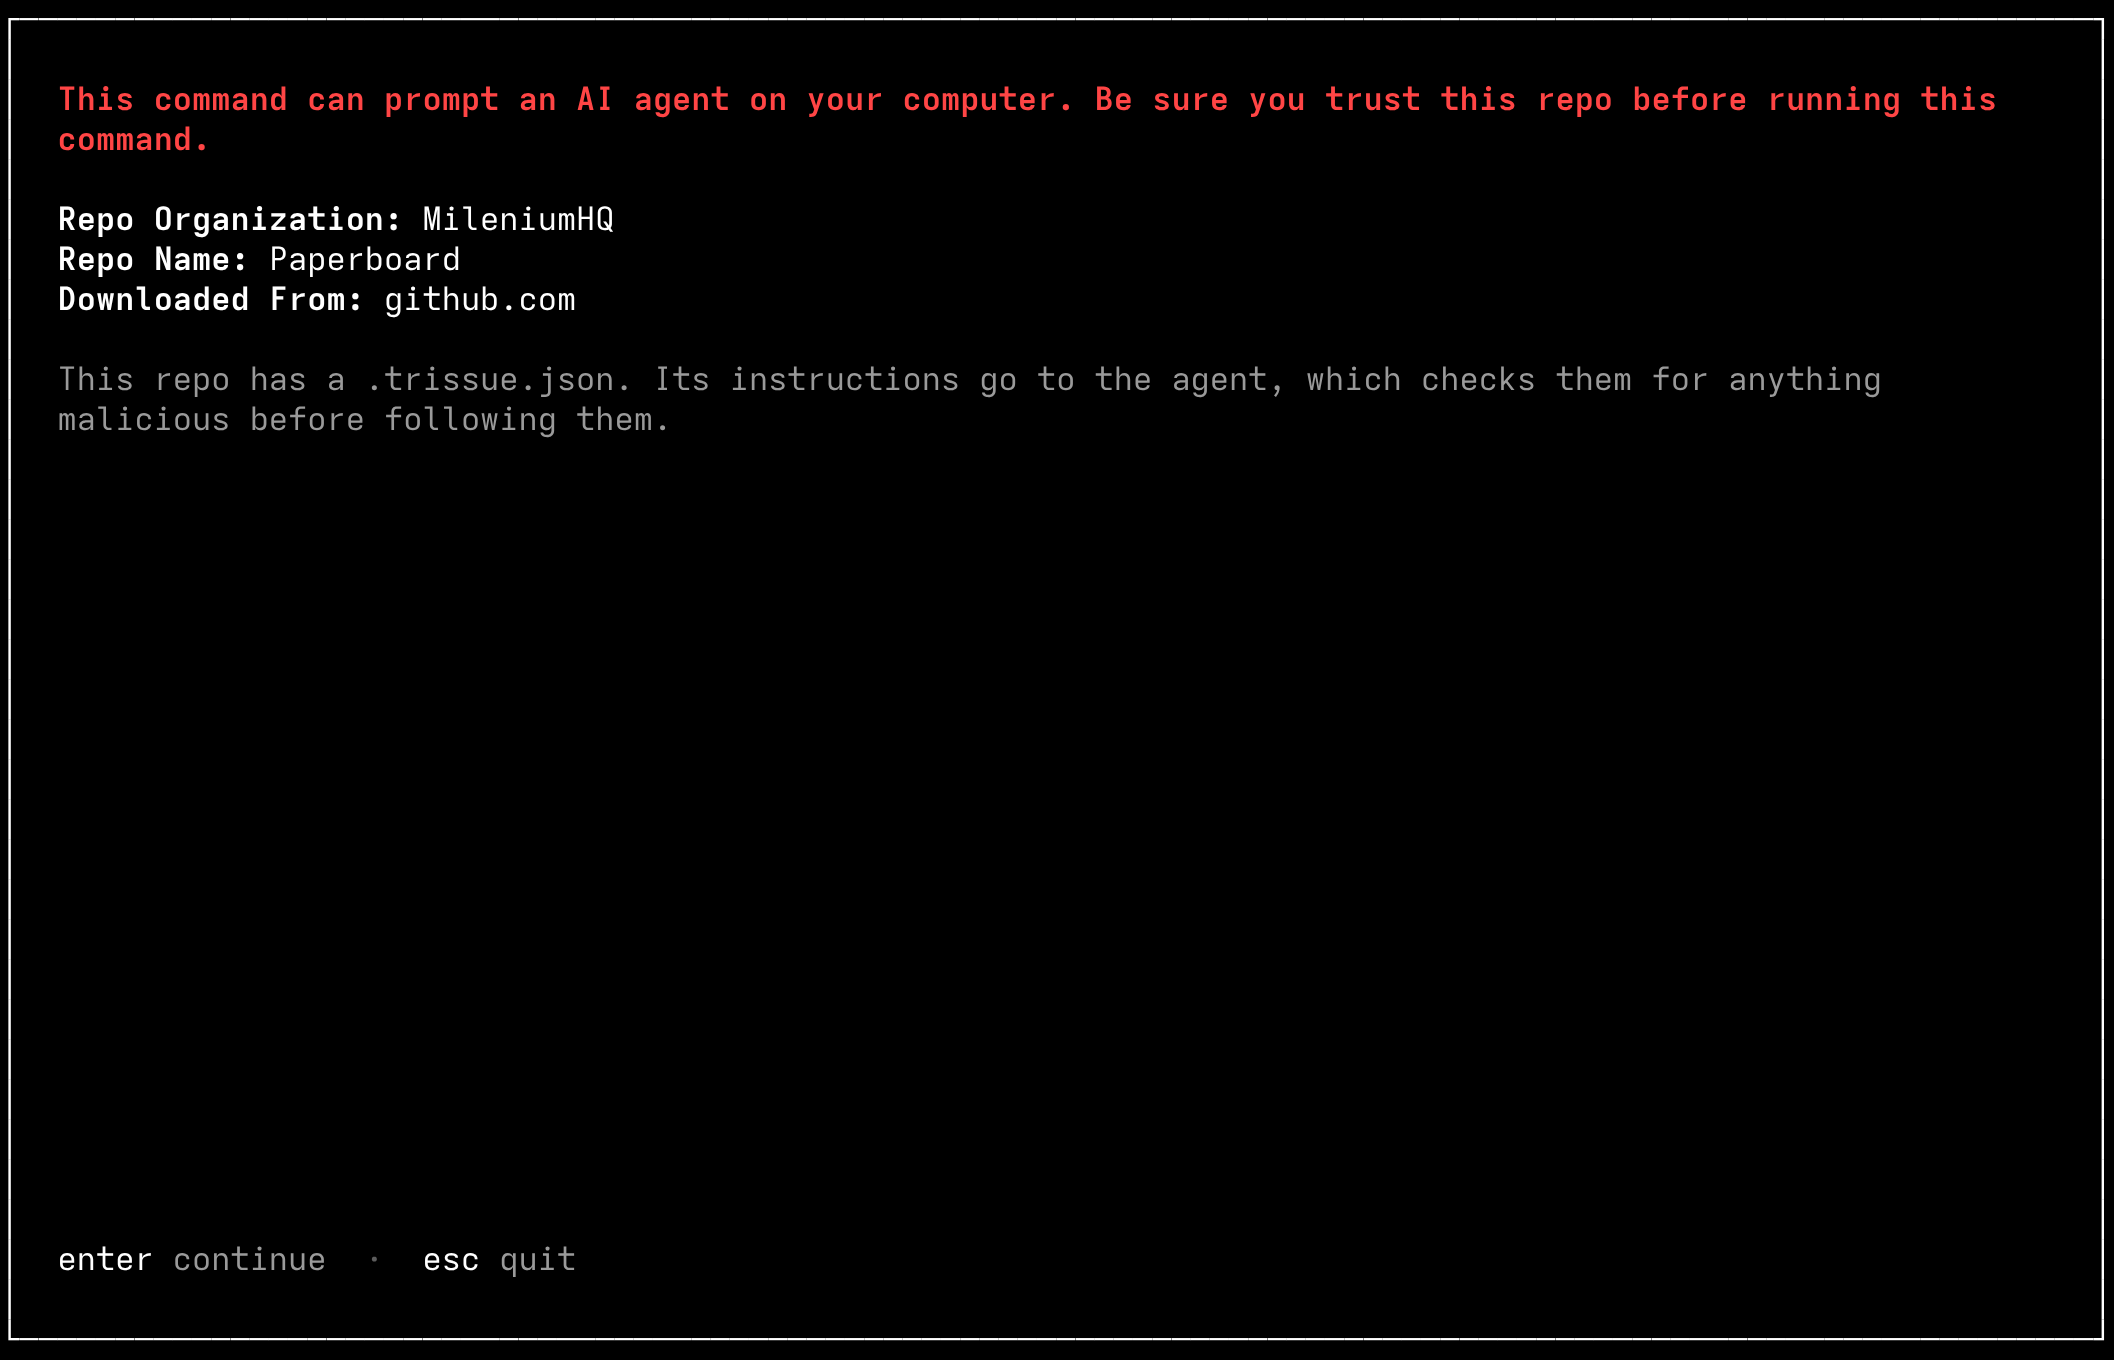
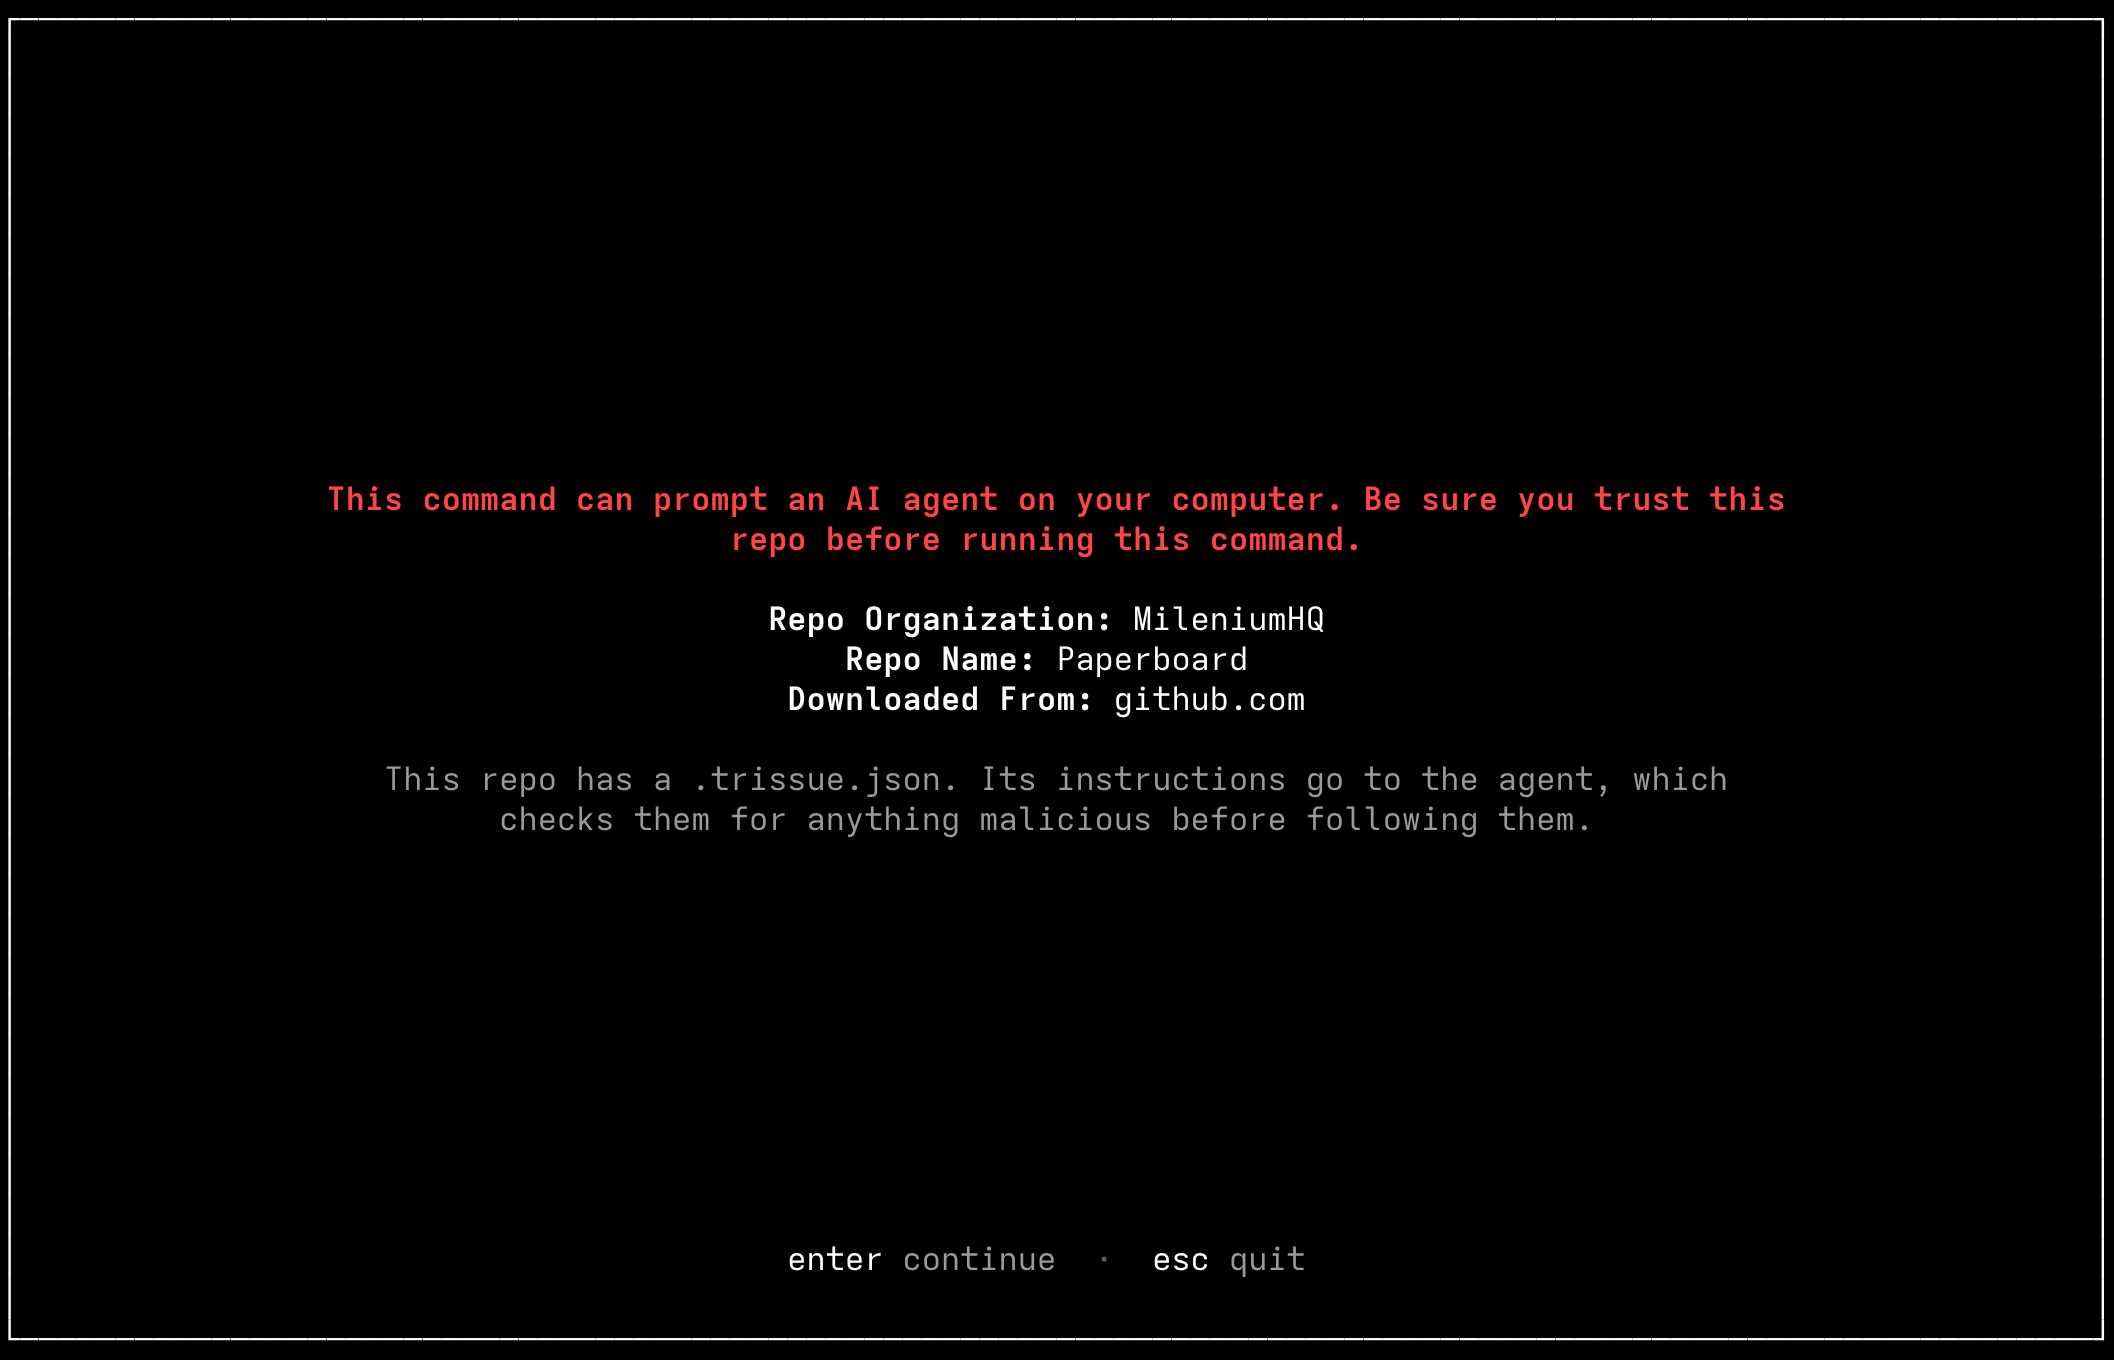
feat(cli): center the text on the trust and error screens
These screens hold a few lines each, and left-aligned they sat in the
top-left corner of a mostly empty frame. Their text is now centered both
ways and wrapped to at most 76 columns, with the buttons and key hints
centered along the bottom. Screens full of content keep their layout.

diff --git a/packages/cli/src/tui/screens/trust.tsx b/packages/cli/src/tui/screens/trust.tsx
@@ -1,9 +1,13 @@
-import { Box, Text } from "ink";
+import { Box } from "ink";
 import { CONFIG_FILE } from "trissue-embedded";
-import { Hints } from "../components.tsx";
+import { CenteredLines, Hints, useFrameSize, type Line, type Segment } from "../components.tsx";
 import type { Controller } from "../controller.ts";
 import { useKeys } from "../keys.ts";
+import { wrapSegments } from "../markdown.ts";
 import { BASE_THEME } from "../theme.ts";
+
+/** The widest a line of text gets on the centered screens, so it stays easy to read. */
+export const CENTERED_TEXT_WIDTH = 76;
 
 /**
  * The first screen. It warns before anything from the repository is used, and
@@ -11,6 +15,8 @@ import { BASE_THEME } from "../theme.ts";
  */
 export function TrustScreen({ controller: c, onQuit }: { controller: Controller; onQuit: () => void }) {
   const theme = BASE_THEME;
+  const frame = useFrameSize();
+  const width = Math.min(frame.width, CENTERED_TEXT_WIDTH);
   const source = c.options.source;
   const ready = c.fetched() !== null;
   const error = c.fetchError();
@@ -20,35 +26,34 @@ export function TrustScreen({ controller: c, onQuit }: { controller: Controller;
     else if (key.name === "return" && ready) c.setScreen("compose");
   });
 
-  const row = (label: string, value: string) => (
-    <Text>
-      <Text color={theme.text} bold>
-        {label}:{" "}
-      </Text>
-      <Text color={theme.text}>{value}</Text>
-    </Text>
-  );
+  const paragraph = (segments: Segment[]): Line[] => wrapSegments(segments, width);
+  const row = (label: string, value: string) => paragraph([
+    { text: `${label}: `, color: theme.text, bold: true },
+    { text: value, color: theme.text },
+  ]);
 
-  let status: [string, string];
-  if (error) status = [error, theme.danger];
-  else if (!ready) status = ["Downloading the repo…", theme.muted];
-  else if (c.config()) status = [`This repo has a ${CONFIG_FILE}. Its instructions go to the agent, which checks them for anything malicious before following them.`, theme.muted];
-  else status = ["This repo has no trissue configuration, so the defaults are used. Only continue if you trust it.", theme.muted];
+  let status: Segment;
+  if (error) status = { text: error, color: theme.danger };
+  else if (!ready) status = { text: "Downloading the repo…", color: theme.muted };
+  else if (c.config()) status = { text: `This repo has a ${CONFIG_FILE}. Its instructions go to the agent, which checks them for anything malicious before following them.`, color: theme.muted };
+  else status = { text: "This repo has no trissue configuration, so the defaults are used. Only continue if you trust it.", color: theme.muted };
 
   return (
-    <Box flexDirection="column" flexGrow={1} justifyContent="space-between">
-      <Box flexDirection="column" gap={1}>
-        <Text color={theme.danger} bold>
-          This command can prompt an AI agent on your computer. Be sure you trust this repo before running this command.
-        </Text>
-        <Box flexDirection="column">
-          {row("Repo Organization", source.org || "None")}
-          {row("Repo Name", source.name)}
-          {row(source.kind === "local" ? "Opened From" : "Downloaded From", source.kind === "local" ? `${source.origin} (${source.url})` : source.origin)}
-        </Box>
-        <Text color={status[1]}>{status[0]}</Text>
+    <Box flexDirection="column" flexGrow={1}>
+      <Box flexDirection="column" flexGrow={1} justifyContent="center" gap={1}>
+        <CenteredLines
+          lines={paragraph([{ text: "This command can prompt an AI agent on your computer. Be sure you trust this repo before running this command.", color: theme.danger, bold: true }])}
+        />
+        <CenteredLines
+          lines={[
+            ...row("Repo Organization", source.org || "None"),
+            ...row("Repo Name", source.name),
+            ...row(source.kind === "local" ? "Opened From" : "Downloaded From", source.kind === "local" ? `${source.origin} (${source.url})` : source.origin),
+          ]}
+        />
+        <CenteredLines lines={paragraph([status])} />
       </Box>
-      <Hints theme={theme} hints={ready ? [["enter", "continue"], ["esc", "quit"]] : [["esc", "quit"]]} />
+      <Hints theme={theme} centered hints={ready ? [["enter", "continue"], ["esc", "quit"]] : [["esc", "quit"]]} />
     </Box>
   );
 }

diff --git a/packages/cli/src/tui/screens/result.tsx b/packages/cli/src/tui/screens/result.tsx
@@ -1,10 +1,11 @@
 import { Box, Text } from "ink";
 import { useState } from "react";
-import { ButtonRow, Header, Hints, Lines, Panel, useMeasure, type Line } from "../components.tsx";
+import { ButtonRow, CenteredLines, Header, Hints, Lines, Panel, useFrameSize, useMeasure, type Line } from "../components.tsx";
 import type { Controller } from "../controller.ts";
 import { useKeys } from "../keys.ts";
 import { renderMarkdown, wrapSegments } from "../markdown.ts";
 import type { Theme } from "../theme.ts";
+import { CENTERED_TEXT_WIDTH } from "./trust.tsx";
 
 type Action = { label: string; run: () => void };
 
@@ -69,6 +70,7 @@ export function ResultScreen({ controller: c, theme, product, detail, onQuit }: 
 /** What went wrong: an error, a rejection by the agent, or a stop. */
 export function ErrorScreen({ controller: c, theme, product, detail, onQuit }: { controller: Controller; theme: Theme; product: string; detail: string; onQuit: () => void }) {
   const [index, setIndex] = useState(0);
+  const width = Math.min(useFrameSize().width, CENTERED_TEXT_WIDTH);
   const actions: Action[] = [
     { label: "Try again", run: () => c.tryAgain() },
     { label: "Quit", run: onQuit },
@@ -84,14 +86,12 @@ export function ErrorScreen({ controller: c, theme, product, detail, onQuit }: {
   return (
     <Box flexDirection="column" flexGrow={1} gap={1}>
       <Header theme={theme} product={product} detail={detail} />
-      <Box flexDirection="column" flexGrow={1} gap={1}>
-        <Text color={theme.danger} bold>
-          ⚠ {c.error()?.title ?? "Error"}
-        </Text>
-        <Text color={theme.text}>{c.error()?.message}</Text>
+      <Box flexDirection="column" flexGrow={1} justifyContent="center" gap={1}>
+        <CenteredLines lines={wrapSegments([{ text: `⚠ ${c.error()?.title ?? "Error"}`, color: theme.danger, bold: true }], width)} />
+        <CenteredLines lines={wrapSegments([{ text: c.error()?.message ?? "", color: theme.text }], width)} />
       </Box>
-      <ButtonRow theme={theme} focused index={index} items={actions.map((action) => ({ label: action.label }))} />
-      <Hints theme={theme} hints={[["←→", "choose"], ["enter", "select"], ["ctrl+c", "quit"]]} />
+      <ButtonRow theme={theme} focused centered index={index} items={actions.map((action) => ({ label: action.label }))} />
+      <Hints theme={theme} centered hints={[["←→", "choose"], ["enter", "select"], ["ctrl+c", "quit"]]} />
     </Box>
   );
 }

diff --git a/packages/cli/src/tui/components.tsx b/packages/cli/src/tui/components.tsx
@@ -119,10 +119,24 @@ export function Header({ theme, product, detail }: { theme: Theme; product: stri
   );
 }
 
-/** Key hints along the bottom of the frame, like "enter continue · esc quit". */
-export function Hints({ theme, hints }: { theme: Theme; hints: [string, string][] }) {
+/**
+ * Rows of styled text, each centered on its own. For screens with little on
+ * them, where text hugging the left edge leaves the rest of the frame empty.
+ */
+export function CenteredLines({ lines }: { lines: Line[] }) {
   return (
-    <Box flexShrink={0}>
+    <Box flexDirection="column" alignItems="center" flexShrink={0}>
+      {lines.map((line, index) => (
+        <Text key={index}>{line.length === 0 ? " " : line.map((segment, part) => <SegmentText key={part} segment={segment} />)}</Text>
+      ))}
+    </Box>
+  );
+}
+
+/** Key hints along the bottom of the frame, like "enter continue · esc quit". */
+export function Hints({ theme, hints, centered = false }: { theme: Theme; hints: [string, string][]; centered?: boolean }) {
+  return (
+    <Box flexShrink={0} justifyContent={centered ? "center" : "flex-start"}>
       <Text>
         {hints.map(([key, label], index) => (
           <Fragment key={key + label}>
@@ -169,14 +183,16 @@ export function ButtonRow({
   items,
   index,
   focused,
+  centered = false,
 }: {
   theme: Theme;
   items: { label: string; prefix?: { text: string; color: string } }[];
   index: number;
   focused: boolean;
+  centered?: boolean;
 }) {
   return (
-    <Box flexDirection="row" flexWrap="wrap" columnGap={2} flexShrink={0}>
+    <Box flexDirection="row" flexWrap="wrap" columnGap={2} flexShrink={0} justifyContent={centered ? "center" : "flex-start"}>
       {items.map((item, position) => {
         const active = focused && position === index;
         const inverted = { color: theme.background, backgroundColor: theme.focus };
